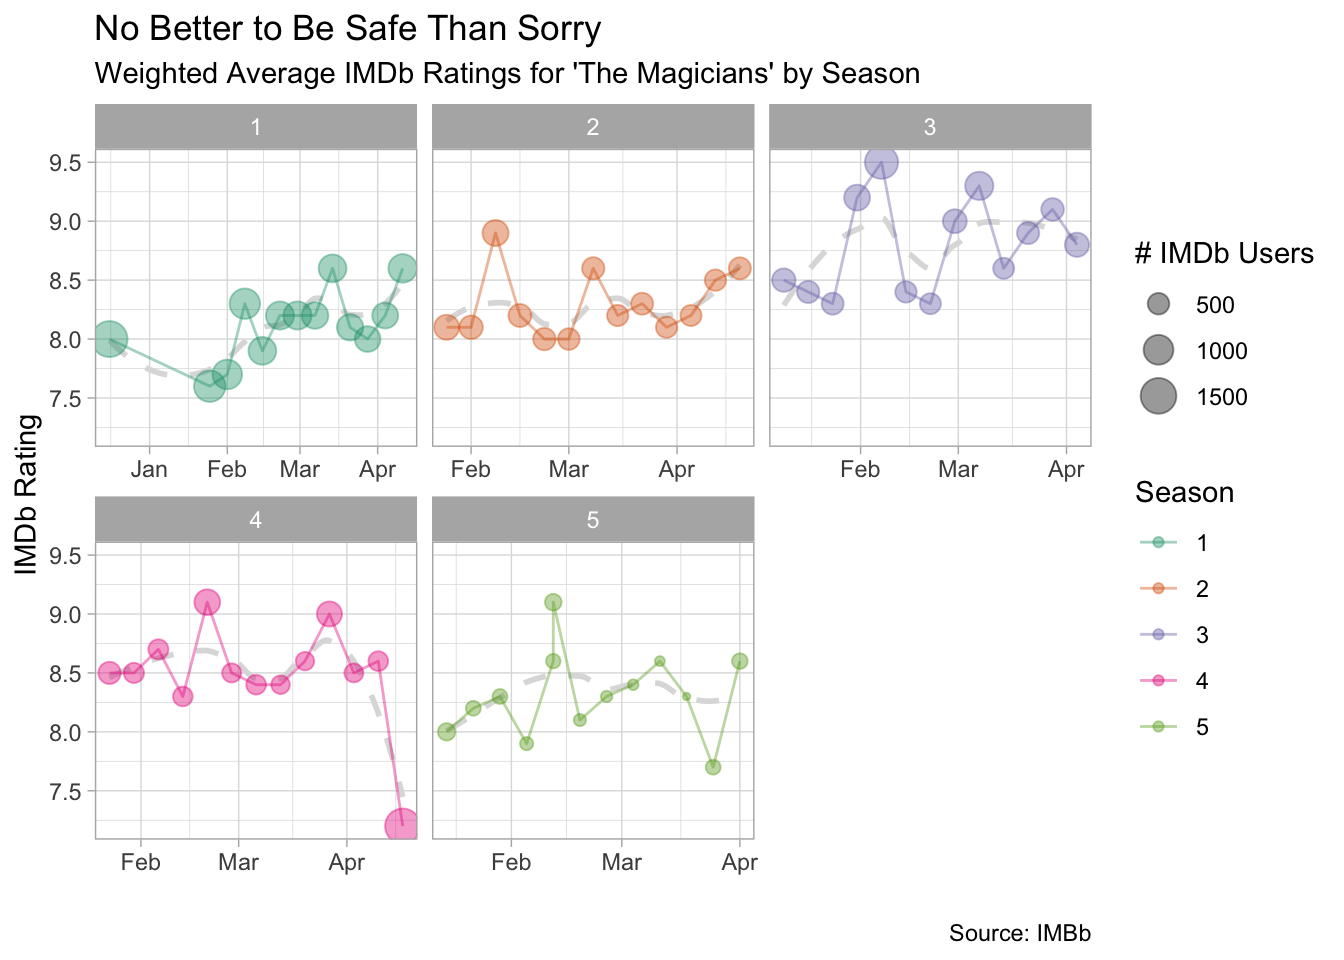
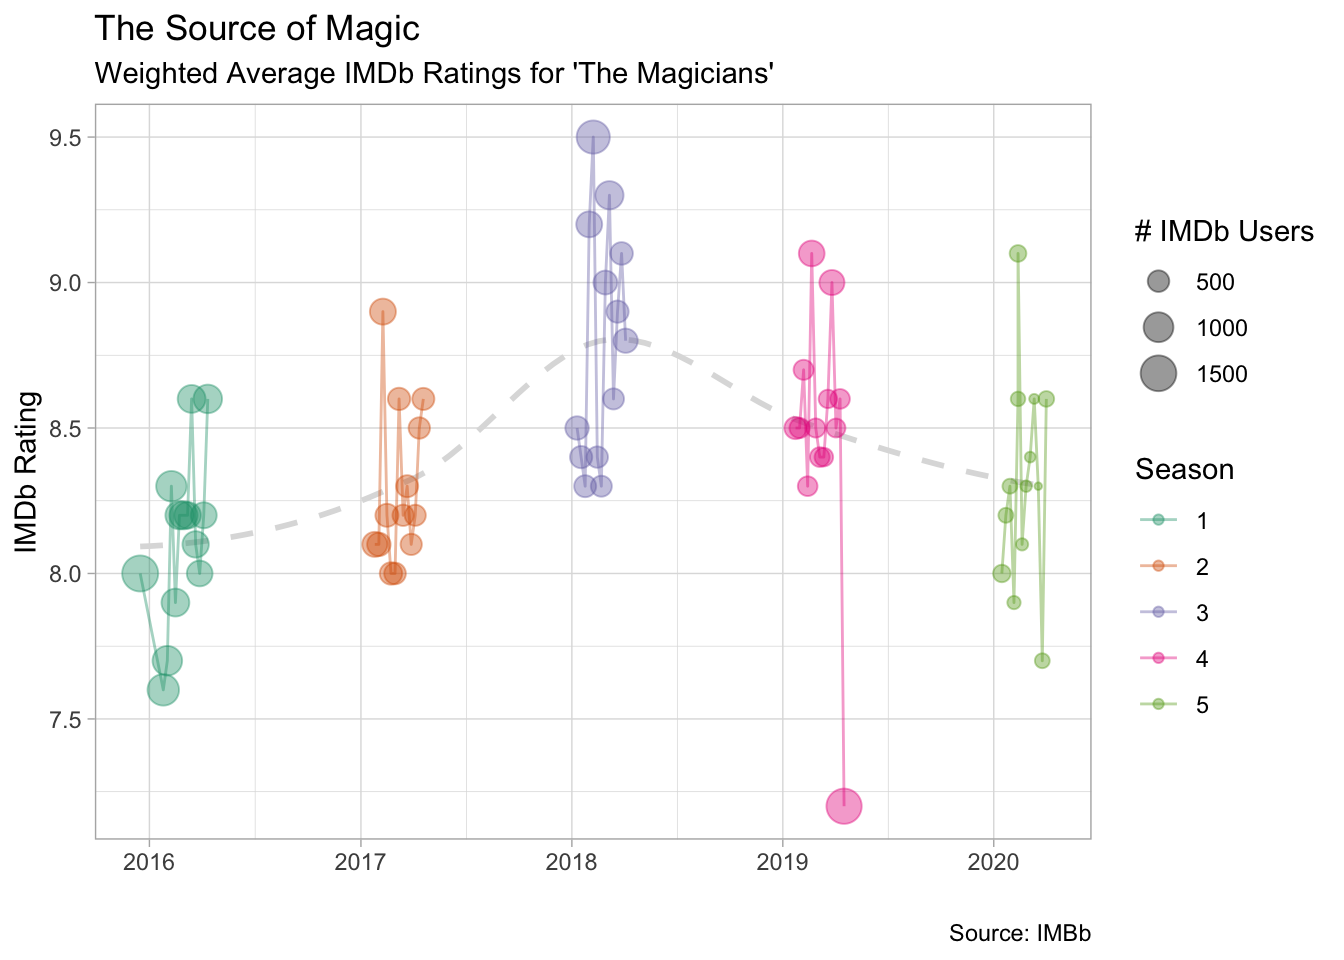
magicians first publish

diff --git a/content/post/2020-08-25-rvest-magicians/index.html b/content/post/2020-08-25-rvest-magicians/index.html
@@ -1,10 +1,12 @@
 ---
-title: "Exploring rvest Wizardry"  
+title: "Becoming An rvest Magician"  
+subtitle: "Scraping IMDb data for 'The Magicians' using rvest"
 date: 2020-08-25
 categories:  
   - R
 tags:  
   - rvest
+  - ggplot
 slug: "rvest-wizardry"  
 image:
   preview_only: FALSE
@@ -15,23 +17,48 @@ links:
   url: https://ko-fi.com/zachbogart
 output: html_document
 editor_options: 
-  chunk_output_type: console
+  chunk_output_type: inline
 draft: true
 ---
 
 
 
 <p>I love <em><a href="https://en.wikipedia.org/wiki/The_Magicians_(American_TV_series)">The Magicians</a></em>. I was in the midst of rewatching this wonderful show recently and as I did, I felt a feeling. This feeling often crops up when rewatching a series or watching a show with someone who hasn’t seen it before: it takes a few episodes to reach it’s stride. I knew what was going to happen and I latched on to my favorite bits, but it’s a different experience on first blush. I remember being quite confused when first watching the series, only to really get into it a few episodes in (maybe it was a whole season?).</p>
-<p>This made me curious what other people thought about the show, episode-by-episode. This curiosity took me down a pleasant little rabbit hole, discovering how <code>rvest</code> can make easy work of web scraping. Let’s get into it!</p>
+<p>This made me curious what other people thought about the show, episode-by-episode. This curiosity took me down a pleasant little rabbit hole, discovering how <code>rvest</code> can make easy work of <strong>web scraping in R</strong>.</p>
+<p>Let’s do some magic with <code>rvest</code>!</p>
+<p><img src="https://media.giphy.com/media/ieREaX3VTHsqc/giphy.gif" /></p>
 <div id="unleash-my-inner-rvest-magician" class="section level2">
 <h2>Unleash My Inner (rvest) Magician</h2>
-<p>My basic goal was to grab the IMDb ratings of <em>The Magicians</em> for each episode and plot them over time. This turned into a little exercise in how to use <code>[rvest](https://blog.rstudio.com/2014/11/24/rvest-easy-web-scraping-with-r/)</code> to get the data. Here’s what I came up with:</p>
+<p>My basic goal was to grab the IMDb ratings of <em>The Magicians</em> for each episode and plot them over time. This turned into a little exercise in how to use <a href="https://blog.rstudio.com/2014/11/24/rvest-easy-web-scraping-with-r/"><code>rvest</code></a> to get the data.</p>
+<div id="imports" class="section level3">
+<h3>Imports</h3>
 <pre class="r"><code>library(tidyverse) # cause duh
 library(rvest) # for web scraping
-library(glue) # for that warm and fuzzy fstring feeling (python)
+library(glue) # for that warm and fuzzy fstring feeling (python-like)
 
 theme_set(theme_light()) # for cleaner plots (David Robinson screencasts are rubbing off)
 library(RColorBrewer) # for a nicer set of colors</code></pre>
+</div>
+<div id="explain-yourself" class="section level3">
+<h3>Explain Yourself</h3>
+<p>I started out learning the basics of <code>rvest</code> from <a href="https://blog.rstudio.com/2014/11/24/rvest-easy-web-scraping-with-r/">Rstudio’s blog</a>. Was able to get the ratings quite easily thanks to <a href="https://selectorgadget.com/"><code>selectorGadget</code></a>, a lovely little plugin for selecting what you want to scrape off the html structure by CSS tags (it’s my new favorite thing! :heart:). After scraping, I had the ratings as a vector, which I could convert into a tibble.</p>
+<pre class="r"><code># how I started exploring
+
+# define url
+base_url &lt;- &quot;https://www.imdb.com/title/tt4254242/episodes?season=1&quot;
+
+# go get the html
+html &lt;- read_html(base_url)
+
+# grab ratings
+rating &lt;- html_nodes(html, &quot;.ipl-rating-star.small .ipl-rating-star__rating&quot;) %&gt;% 
+    html_text(trim = TRUE)
+
+# make a dataframe
+df &lt;- tibble(rating)</code></pre>
+<p>At this point, I could go back and take a bigger bite: grab more stuff from each page and add in a <code>for</code> loop to grab data for all seasons. Here’s a look at <code>selectorGadget</code> in action:</p>
+<p><img src="selectorGadget.png" /></p>
+<p>And here’s the code I ended up with:</p>
 <pre class="r"><code># list of seasons
 seasons = seq(1,5)
 
@@ -73,10 +100,20 @@ for (season in seasons) {
 
 # smoosh the list into one tibble
 magicians &lt;- bind_rows(df_list)</code></pre>
+<p>Some notes:</p>
+<ul>
+<li><strong>A good flow to know</strong>: The ability to loop through items, make a collection of dataframes, and then combine them is quite useful. I have done this flow a bunch in python, but there were some interesting gear changes in tidyverse-land. My initial thought was to use a dictionary, but I can store them as a <code>list()</code> in R, then run <code>bind_rows()</code> from <code>dplyr</code>. Also found myself writing python-like code, only to realize it needed minor syntax tweaks (stricter <code>for</code> loops, for example).</li>
+<li><strong>Glue is good</strong>: I like <a href="https://realpython.com/python-f-strings/">fstrings</a> in python, so finding the <a href="https://cran.r-project.org/web/packages/glue/index.html">glue package</a> was very nice. Makes combining items together easy to understand (comes up more so later).</li>
+<li><strong>Brittle Code</strong>: Got away with <code>parse_date()</code> for <code>air_date</code> in this case since <em>The Magicians</em> never aired an episode in May. Will come up later.</li>
+<li><strong>Making columns on the fly</strong>: Adding in the <code>season</code> and <code>episode</code> columns for each tibble is a nice trick. I know the season given the value in the <code>for</code> loop and episode numbers can just come from a sequence counter. Will have to look further into understanding what the period means inside <code>nrow</code> in a dplyr chain (references the current object, I guess?)</li>
+<li><strong>How to select(orGadget)</strong>: I actually isolated each item I wanted separately with <code>selectorGadget</code>, but there are probably ways to do it all in one go.</li>
+</ul>
+<p>Now we got the data for the show. Let’s visualize it!</p>
+</div>
 </div>
 <div id="try-some-spells" class="section level2">
 <h2>Try Some Spells</h2>
-<p>The results show the average rating of a given episode and how many IMDb users that rating is based on. Episodes of <em>The Magicians</em> seem very well-received overall, with an average episode rating of 8.4 across all seasons. Split by season, the average episode rating has a slight increase in the third season.</p>
+<p>The results show the average weighted rating of a given episode and how many IMDb users that rating is based on. Episodes of <em>The Magicians</em> seem very well-received overall, with an average episode rating of 8.4 across all seasons. Split by season, the average episode rating has a slight increase in the third season.</p>
 <pre class="r"><code>magicians %&gt;% 
   group_by(season) %&gt;% 
   summarise(avg_rating = mean(rating))</code></pre>
@@ -105,20 +142,33 @@ magicians &lt;- bind_rows(df_list)</code></pre>
 magicians_plot +
   labs(title = &quot;The Source of Magic&quot;,
        subtitle = &quot;Weighted Average IMDb Ratings for &#39;The Magicians&#39;&quot;)</code></pre>
-<p><img src="/post/2020-08-25-rvest-magicians/index_files/figure-html/unnamed-chunk-4-1.png" width="672" /></p>
-<p>Here’s a look at the progression faceted by season. The progression between seasons is easier to see without the spaces where new episodes weren’t airing. The general upward trend is quite steady for the first three seasons, peaking in the 9’s then dipping down to mid to low 8’s for the last two seasons (excluding the season four finale). Also can see a high volume of users rating episodes for the earlier seasons, with the final season having the fewest users.</p>
+<p><img src="/post/2020-08-25-rvest-magicians/index_files/figure-html/unnamed-chunk-5-1.png" width="672" /></p>
+<p>Here’s a look at the progression faceted by season. The progression between seasons is easier to see without the spaces where new episodes weren’t airing. The general upward trend is quite steady for the first three seasons, peaking in the 9’s then dipping down to the mid to low 8’s for the last two seasons (excluding the season four finale). Also can see a high volume of users rating episodes for the earlier seasons, with the final season having the fewest users.</p>
 <pre class="r"><code>magicians_plot + 
   facet_wrap(~ season, scales = &quot;free_x&quot;, nrow = 2) +
   labs(title = &quot;No Better to Be Safe Than Sorry&quot;,
        subtitle = &quot;Weighted Average IMDb Ratings for &#39;The Magicians&#39; by Season&quot;)</code></pre>
-<p><img src="/post/2020-08-25-rvest-magicians/index_files/figure-html/unnamed-chunk-5-1.png" width="672" /></p>
+<p><img src="/post/2020-08-25-rvest-magicians/index_files/figure-html/unnamed-chunk-6-1.png" width="672" /></p>
+</div>
+<div id="going-fillory-and-further" class="section level2">
+<h2>Going (Fillory and) Further</h2>
+<p>Here are some things that could be cool to explore further about <em>The Magicians</em>:</p>
+<ul>
+<li><strong>Graph Labels</strong>: Labeling the high and low episodes in the graphs above would be a nice touch.</li>
+<li><strong>Fillory on Ratings</strong>: Is there a jump when the episode centers on <a href="https://themagicians.fandom.com/wiki/Fillory">Fillory</a>? Might be difficult to find, but could be an interesting note.</li>
+<li><strong>Characters on Ratings</strong>: Could be interesting to see if ratings map to the characters in the episode. Do ratings dip or spike when certain characters are present?</li>
+<li><strong>Sentiment Analysis</strong>: Looking at the actual reviews as a sentiment analysis could be another fun rabbit hole.</li>
+</ul>
+<p>Stay off the garden path.</p>
 </div>
 <div id="advanced-spellcasting" class="section level2">
 <h2>Advanced Spellcasting</h2>
+<p>Well that’s all well and good for <em>The Magicians</em>, but I wanted to make it useful for other shows. So let’s do some wizaRdry that future-me will be thankful for.</p>
+<p>Here I convert the above code into a function that can get data for a show on IMDb for a given stretch of seasons.</p>
 <pre class="r"><code>grab_imdb_ratings &lt;- function(imdb_code, seasons) {
     # Grabbing Rating Data for a show on IMDb
     # 
-    # - imdb_code: url code for a given show
+    # - imdb_code: url code for a given show (the &quot;tt&lt;number_string&gt;&quot; in the url)
     # - seasons: list of desired seasons
   
   # empty list to store dataframes
@@ -164,51 +214,55 @@ magicians_plot +
   return(show_run)
   
 }</code></pre>
-<pre class="r"><code>simpsons &lt;- grab_imdb_ratings(&quot;tt0096697&quot;, c(3,6,12))</code></pre>
-</div>
-<div id="fun-refs" class="section level2">
-<h2>Fun Refs</h2>
-How I usually feel putting something together:
-<div style="width:100%;height:0;padding-bottom:78%;position:relative;">
-<iframe src="https://giphy.com/embed/ieREaX3VTHsqc" width="100%" height="100%" style="position:absolute" frameBorder="0" class="giphy-embed" allowFullScreen>
-</iframe>
-</div>
-<p>
-<a href="https://giphy.com/gifs/milhouse-ieREaX3VTHsqc">via GIPHY</a>
-</p>
+<p>And here it is in action:</p>
+<pre class="r"><code># simpsons, first ten seasons, plus thirteenth for good measure
+grab_imdb_ratings(&quot;tt0096697&quot;, c(1:10, 13))</code></pre>
+<pre><code>## # A tibble: 248 x 6
+##    season episode air_date   title                             rating votes
+##     &lt;dbl&gt;   &lt;int&gt; &lt;date&gt;     &lt;chr&gt;                              &lt;dbl&gt; &lt;dbl&gt;
+##  1      1       1 1989-12-17 Simpsons Roasting on an Open Fire    8.2  5694
+##  2      1       2 1990-01-14 Bart the Genius                      7.7  3636
+##  3      1       3 1990-01-21 Homer&#39;s Odyssey                      7.4  3188
+##  4      1       4 1990-01-28 There&#39;s No Disgrace Like Home        7.7  3132
+##  5      1       5 1990-02-04 Bart the General                     8    3178
+##  6      1       6 1990-02-11 Moaning Lisa                         7.6  3071
+##  7      1       7 1990-02-18 The Call of the Simpsons             7.8  2955
+##  8      1       8 1990-02-25 The Telltale Head                    7.7  2872
+##  9      1       9 1990-03-18 Life on the Fast Lane                7.5  2858
+## 10      1      10 1990-03-25 Homer&#39;s Night Out                    7.4  2760
+## # … with 238 more rows</code></pre>
+<p>Interesting changes:</p>
+<ul>
+<li><strong>Sticks together like glue</strong>: Defining the url is a little more complicated, but <code>glue</code> makes it easy to work with.</li>
+<li><strong>A corner case</strong>: For <code>air_date</code>, I realized after testing that my previous method broke for the month of May. This was because I assumed all months had a period after them, but May does not have one. This went undetected since <em>The Magicians</em> doesn’t air any episodes in May. After running a test with <em>The Simpsons</em>, I went back and removed the period before parsing. No more <code>NA</code>s! (the code is probably brittle in other ways. Tread lightly!)</li>
+</ul>
+<p>Huzzah! Now I can use it for other projects. Won’t that be funzies!</p>
+<p>Till next time!</p>
+<p><img src="https://media.giphy.com/media/l2Sq18e02qsxjKfBK/giphy.gif" /></p>
 </div>
 <div id="learning-there-will-be-a-quiz" class="section level2">
 <h2>Learning (There Will be a Quiz)</h2>
 <ul>
-<li><p>Desire for fstrings in R filled in with glue</p></li>
-<li><p>Functions and for loops feel foreign</p></li>
-<li><p>command entering a line in a for loop can let you sequentially execute for loop lines</p></li>
-<li><p>str_extract(“\d+”) sort of worked, except for commas. parse_number from readr to the rescue. A little unclear to me actually how it works for corner cases</p></li>
-<li><p>using selectorGadget is lovely</p></li>
-<li><p>channeling a lot of python thoughts when I made this</p></li>
-<li><p>blog post on rvest was invaluable</p></li>
-<li><p>note about just recently getting the name rvest</p></li>
-<li><p>What I should do</p>
+<li>The desire for fstrings was filled nicely with the <code>glue</code> package.</li>
+<li>Functions and <code>for</code> loops feel a little foreign in R right now. Practice, practice, practice.</li>
+<li>I’m a big fan of the ability to execute single lines in a <code>for</code> loop with <code>Cmd-Enter</code>. Can execute looping code line-by-line to make sure everything is going smoothly.</li>
+<li>Regarding parsing the votes: <code>str_extract("\\d+")</code> sort of worked, except for commas when there were a bunch of reviews. <code>parse_number()</code> from <code>readr</code> to the rescue. Would want to understand further how it behaves in corner cases.</li>
+<li>Using <code>selectorGadget</code> is lovely</li>
+<li>Dumb note: I only recently got <code>rvest</code> as a package name.
 <ul>
-<li>make it into a function to grab data on a given show</li>
-<li>could even extract data about number of seasons</li>
+<li>Recreation: Ohhhhhh! Cause it’s harv—I get it. So the <a href="https://github.com/rstudio/hex-stickers/blob/master/thumbs/rvest.png">hex sticker for <code>rvest</code></a> has a scythe caus—gotcha.</li>
 </ul></li>
 </ul>
-<p>Going (Fillory and) Further</p>
+</div>
+<div id="some-references" class="section level2">
+<h2>Some References</h2>
 <ul>
-<li>Adding note when they first go into Fillory or introductions of characters could be interesting (harder to find)</li>
-<li>Sentiment of reviews could also be an interesting avenue to explore.</li>
-<li>Stay off the garden path</li>
-<li>labeling the episodes or things that happened</li>
+<li><a href="https://rvest.tidyverse.org/">rvest on tidyverse</a></li>
+<li><a href="https://blog.rstudio.com/2014/11/24/rvest-easy-web-scraping-with-r/">rvest RStudio Blog Post</a></li>
+<li><a href="https://www.datanovia.com/en/blog/top-r-color-palettes-to-know-for-great-data-visualization/">Datanovia Color Palette Post</a></li>
 </ul>
 <div id="image-credit" class="section level4">
 <h4>Image Credit</h4>
 <p><a href="https://thenounproject.com/zachbogart/collection/field-crops/?i=2700664">soybean</a> by Zach Bogart from <a href="https://thenounproject.com/">the Noun Project</a></p>
-<p>TODO</p>
-<ul>
-<li>get GIFs from the Magicians to sprinkle in</li>
-<li>Add interim bit about testing things out just by the onsie (without for loop example)</li>
-<li>Notes about using this in the future</li>
-</ul>
 </div>
 </div>
